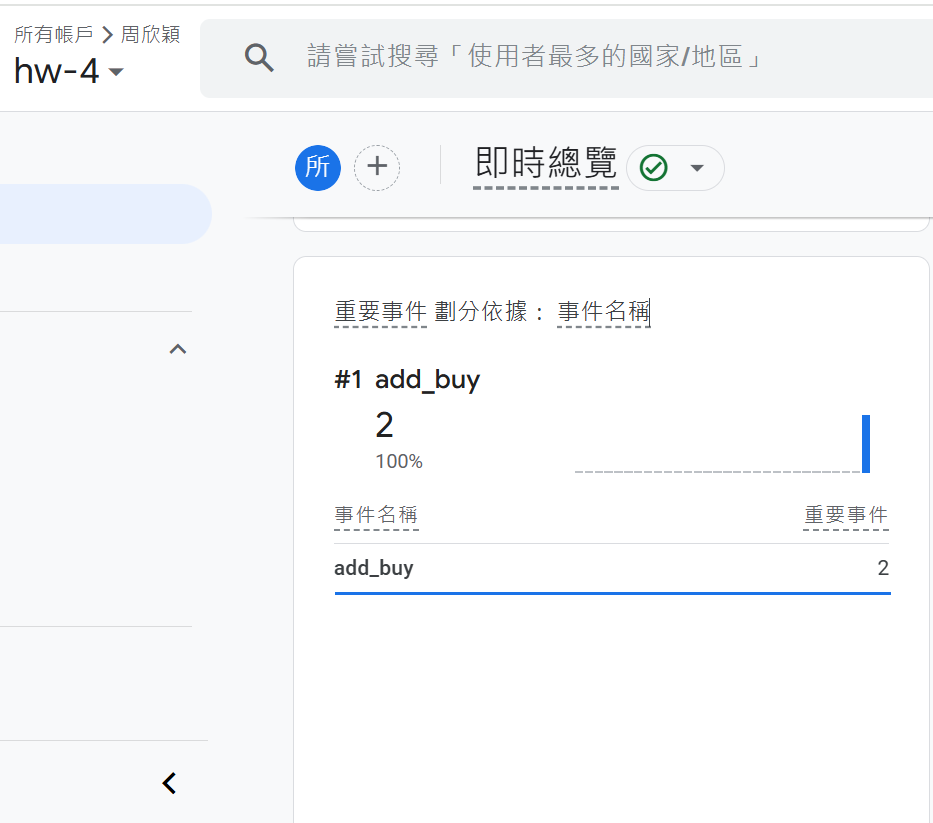
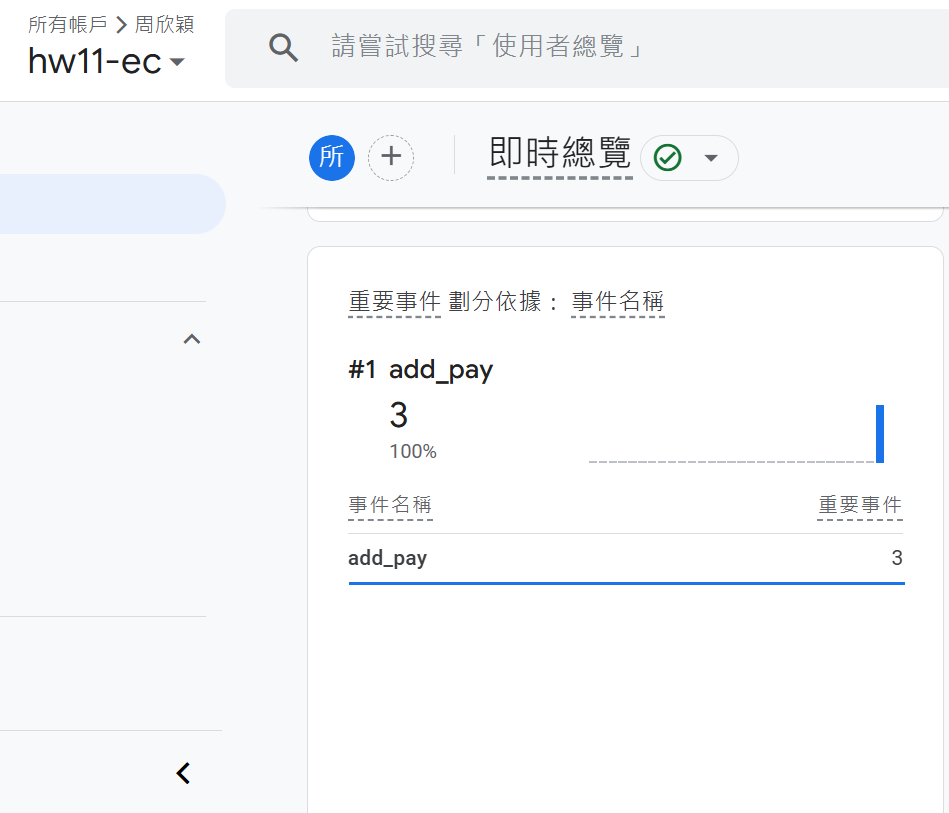
Add files via upload

diff --git a/a6.html b/a6.html
@@ -2,24 +2,39 @@
 <html xmlns="http://www.w3.org/1999/xhtml" xml:lang="en">
 
 <head>
-  <title>周欣穎 110570043 作業4 </title>
-  <meta name="description" content="周欣穎，110570043，作業4，css的各種類型" />
-  <meta name="keywords" content="enter your keywords here" />
+  <title>110570043 周欣穎 作業11</title>
+  <meta name="description" content="這是110570043，周欣穎的作業11。" />
+  <meta name="keywords" content="周欣穎，110570043，作業11，有各種CSS" />
   <meta http-equiv="content-type" content="text/html; charset=utf-8" />
-  <meta http-equiv="X-UA-Compatible" content="IE=9" />
+  <meta name="google-site-verification" content="s4L51DST4Qh712EwbbmxGDzyIBlKtvFsua62YS5jexI" />
   <link rel="stylesheet" type="text/css" href="css/style.css" />
   <link rel="stylesheet" type="text/css" href="mystyle.css" />
   <script type="text/javascript" src="js/jquery.min.js"></script>
-  <script type="text/javascript" src="js/image_slide.js"></script>
+  <script type="text/javascript" src="js/jquery.easing.min.js"></script>
+  <script type="text/javascript" src="js/jquery.lavalamp.min.js"></script>
+  <script type="text/javascript">
+    $(function() {
+      $("#lava_menu").lavaLamp({
+        fx: "backout",
+        speed: 700
+      });
+    });
+  </script>
+    <script type="text/javascript" src="js/jquery.nivo.slider.pack.js"></script>
+    <script type="text/javascript">
+    $(window).load(function() {
+        $('#slider').nivoSlider();
+    });
+    </script>
 
 <!-- Google tag (gtag.js) -->
-<script async src="https://www.googletagmanager.com/gtag/js?id=G-HQFR2LRMYH"></script>
+<script async src="https://www.googletagmanager.com/gtag/js?id=G-WD5XLC7CXP"></script>
 <script>
   window.dataLayer = window.dataLayer || [];
   function gtag(){dataLayer.push(arguments);}
   gtag('js', new Date());
 
-  gtag('config', 'G-HQFR2LRMYH');
+  gtag('config', 'G-WD5XLC7CXP');
 </script>
 
 
@@ -27,103 +42,116 @@
 
 <body>
   <div id="main">	
-	<div id="site_content">
-      <div id="site_heading">
-	    <h1>110570043 周欣穎 作業4</h1>	
-	    <h2>第三種CSS</h2>
-	  </div><!--close site_heading-->
-	  <div id="header">
-	    <div id="menubar">
-          <ul id="menu">
-            <li class="current"><a href="index.html">首頁</a></li>
-            <li><a href="a1.html">第一題</a></li>
-            <li><a href="a2.html">第二題</a></li>
-            <li><a href="a3.html">第三題</a></li>
-            <li><a href="a4.html">第四題</a></li>
-            <li><a href="a5.html">GSC截圖</a></li>
-            <li><a href="a6.html">GA截圖</a></li>
-          </ul>
-        </div><!--close menubar-->
-      </div><!--close header-->	  			  
-	  <div id="content">
-	    
-		<div id="banner_image">
-          <ul class="slideshow">
-            <li class="show"><img width="690" height="250" src="images/slide1.jpg" alt="&quot;Image description here&quot;" /></li>
-            <li><img width="690" height="250" src="images/slide2.jpg" alt="&quot;Image description here&quot;" /></li>
-          </ul>  
-	    </div><!--close banner_image-->	  
-		
-		<div class="content_item">		
-		  <h1>Welcome To Your Website</h1>
-      <hr>
-      <p>
-        <a class="s3" href="https://www.newebpay.com/website/Page/content/service_creditcard" target="_blank">下單購買(使用藍新金流NewebPay) </a>
-      </p>
+	<div id="menubar">
+      <ul class="lavaLampWithImage" id="lava_menu">
+        <li class="current"><a href="index.html">首頁</a></li>
+        <li><a href="a1.html">第1題</a></li>
+        <li><a href="a2.html">第2題</a></li>
+        <li><a href="a3.html">第3題</a></li>
+        <li><a href="a4.html">第4題</a></li>
+        <li><a href="a5.html">GSC圖片</a></li>
+        <li><a href="a6.html">GA圖片</a></li>
+      </ul>
+	</div><!--close menubar-->	    
+	<div id="site_content">        	  
+	  <div id="header"> 
+        <div id="header_name"> 	  
+          <h1>周欣穎，作業11</h1>
+        </div><!--close header_name-->	
+        <div id="header_slogan"> 		
+	      <h2>Company Slogan Goes Here</h2>
+		 </div><!--close header_slogan-->	
+      </div><!--close header-->	
+	  <div id="banner_image">
+	    <div id="slider-wrapper">        
+          <div id="slider" class="nivoSlider">
+            <img src="images/slide1.jpg" alt="" />
+            <img src="images/slide2.jpg" alt="" />
+		  </div>
+		</div><!--close slider-wrapper-->
+	  </div><!--close banner_image-->			  
+      <div id="content">
+        <div class="content_item">
+          <h1 class="s1">GA圖片</h1>
+          <hr>
+          <br>
+          <h1 class="s2"><a href="https://www.newebpay.com/website/Page/content/service_creditcard"  target="_blank" >下單購買(使用藍新金流NewebPay)</a></h1>
+          <p>
+          <img src="images/GA-1.png" width="80%">
+          <br>
+          <h2 class="s4">圖1：活躍使用者人數 (Active Users)：有多少「不同USER ID的使用者」</h2>
+          </p>
 
-      <p>
-        <img src="images/GA-1.png" width="90%">
-      </p>
+          <p>
+            <img src="images/GA-2.png" width="80%">
+            <br>
+            <h2 class="s4">圖2：
+              page_view (頁面瀏覽)=9：瀏覽9次
+              user_engagement (用戶互動)=7：有7次使用者互動(停留超過10秒，或由A網頁切換到B網頁)。它反映了使用者在網站上的參與情況
+              first_visit (首次訪問)=1：有一位新使用者首次造訪網站，它反映了新用戶的增加情況
+              session_start (拜訪開始)：每次使用者訪問網站時自動觸發這個事件，標誌著一次新的訪問開始。如果使用者在30分鐘內沒進行操作GA會自動認為這次會話結束。這個事件可以用來追蹤總訪問量</h2>
+            </p>
 
-      <p>
-        <img src="images/GA-3.png" width="90%">
-        <h3>代表網站總流量的是：session_start</h3>
-        <h3>代表網站新參觀的人數是：first_vitsit</h3>
-        <h3>代表網站實際參與人數的是：user_engagement</h3>
+            <p>
+              <img src="images/GA-3.png" width="80%">
+              <br>
+              <h2 class="s4">圖3：GA4的自訂事件(Custom Event)，add_pay</h2>
+              </p>
 
-      </p>
+              <p>
+                <img src="images/GA-4.png" width="80%">
+                <br>
+                <h2 class="s4">圖4：GA4的重要轉換事件(Important Event， Conversion)</h2>
+                </p>
 
-      <p>
-        <img src="images/GA-4.png" width="90%">
-        <h3>電商轉換率計算參數是：add_buy次數/session_start次數</h3>
-      
-      </p>
-
-
+            
 
 
 
-          <p>This standards compliant, simple, fixed width website template is released as an 'open source' design (under the Creative Commons Attribution 3.0 Licence), which means that you are free to download and use it for anything you want (including modifying and amending it). If you would like to remove the 'website template by ARaynorDesign' link from the footer of a template / website then that is OK, providing you make a small donation via the website. I do not specify an amount, just what you think the design is worth.</p>
-        </div><!--close content_item-->
-	    <div class="content_image">
-		  <a href="#"><img style=" border: 3px solid #FFF;" alt="image" src="images/city.jpg" /></a>
-		</div><!--close content_image-->
-		<div class="content_text">
-		  <p>Lorem ipsum dolor sit amet, consectetur adipiscing elit. Aenean tempor, leo quis tempus scelerisque, tellus massa adipiscing ante, vel scelerisque neque massa tempus ante. Vivamus libero lorem, bibendum ac elementum quis, auctor nec justo. Sed pretium velit nec dolor fringilla varius. Maecenas dapibus neque sed nisi ultrices a ullamcorper sapien imperdiet.</p>
-		  <a href="#">Read More</a>
-		</div><!--close content_text-->  
-		<br style="clear:both"/> 				
-	  </div><!--close content-->	    
 
-      <div class="sidebar_container">  		  
-		<div class="sidebar">
-          <div class="sidebar_item">
-            <h2>Latest Blog</h2>
-			<h4>September 2012</h4>
-            <p>Lorem ipsum dolor sit amet, consectetur adipiscing elit. Pellentesque cursus tempor enim.</p>
-		      <a href="#">Read more</a>
-           </div><!--close sidebar_item--> 
-         </div><!--close sidebar-->     		
-	    <div class="sidebar">
-          <div class="sidebar_item">
-            <h2>Latest Blog</h2>
-		  	<h4>September 2012</h4>
-            <p>Lorem ipsum dolor sit amet, consectetur adipiscing elit. Pellentesque cursus tempor enim.</p>
-		      <a href="#">Read more</a>
-          </div><!--close sidebar_item--> 
-        </div><!--close sidebar-->  
-		<div class="sidebar">
-          <div class="sidebar_item">
-            <h2>Latest Blog</h2>
-			<h4>September 2012</h4>
-            <p>Lorem ipsum dolor sit amet, consectetur adipiscing elit. Pellentesque cursus tempor enim.</p>
-		      <a href="#">Read more</a>
-          </div><!--close sidebar_item--> 
-        </div><!--close sidebar-->  
-      </div><!--close sidebar_container-->  	  
+
+          <p>This standards compliant, simple, fixed width website template is released as an 'open source' design (under the Creative Commons Attribution 3.0 Licence), which means that you are free to download and use it for anything you want (including modifying and amending it). If you wish to remove the 'ARaynorDesign' link in the footer of the template, please contact me first, but other than that...</p>
+          <h3>Place your heading here</h3>
+          <div style="width:200px; float:left; padding: 0px 20px 10px 0px;"><img alt="image" src="images/image.jpg" /></div>
+          <p>This website template uses the fancybox jquery tool to enhance the website, click on the image to the right to see. </p>
+          <p>Ut tincidunt, ante vel fermentum iaculis, turpis sem pulvinar diam, sit amet ullamcorper nibh dui ac nibh. Class aptent taciti sociosqu ad litora torquent per conubia nostra, per inceptos himenaeos:</p>
+          <p>Vestibulum tempus urna vitae neque vehicula sit amet tristique felis ultrices. Phasellus eu laoreet mauris. Integer sit amet ante nec ipsum euismod hendrerit et eget sapien. Duis velit ante, semper nec dapibus adipiscing, pellentesque vitae orci. Etiam adipiscing, justo ut faucibus placerat, neque libero accumsan ipsum, non pellentesque ligula nibh id justo. Aenean tellus nisl, bibendum vitae sollicitudin id, faucibus ut mi.</p>
+          <p>Vestibulum tempus urna vitae neque vehicula sit amet tristique felis ultrices. Phasellus eu laoreet mauris. Integer sit amet ante nec ipsum euismod hendrerit et eget sapien. Duis velit ante, semper nec dapibus adipiscing, pellentesque vitae orci. Etiam adipiscing, justo ut faucibus placerat, neque libero accumsan ipsum, non pellentesque ligula nibh id justo. Aenean tellus nisl, bibendum vitae sollicitudin id, faucibus ut mi.</p>
+		</div><!--close content_item-->	
+	      
+		<div class="sidebar_container">   		  
+		  <div class="sidebar">
+            <div class="sidebar_item">
+                <h2>Latest Blog</h2>
+			    <h4>April 2012</h4>
+                <p>Lorem ipsum dolor sit amet, consectetur adipiscing elit. Pellentesque cursus tempor enim.</p>
+		          <a href="#">Read more</a>
+              </div><!--close sidebar_item--> 
+          </div><!--close sidebar-->     		
+		  <div class="sidebar">
+            <div class="sidebar_item">
+              <h2>Latest Blog</h2>
+		  	  <h4>April 2012</h4>
+              <p>Lorem ipsum dolor sit amet, consectetur adipiscing elit. Pellentesque cursus tempor enim.</p>
+		        <a href="#">Read more</a>
+            </div><!--close sidebar_item--> 
+          </div><!--close sidebar-->  
+		  <div class="sidebar">
+            <div class="sidebar_item">
+              <h2>Latest Blog</h2>
+			  <h4>April 2012</h4>
+              <p>Lorem ipsum dolor sit amet, consectetur adipiscing elit. Pellentesque cursus tempor enim.</p>
+		        <a href="#">Read more</a>
+            </div><!--close sidebar_item--> 
+          </div><!--close sidebar-->  
+        </div><!--close sidebar_container-->	
+       <br style="clear:both;" />
+      </div><!--close content-->	
     </div><!--close site_content-->	
     <div id="footer">  
-      &copy;版權所有，2024 by 周欣穎。
+	  <div id="footer_content">
+        版權所有，&copy; designed by 周欣穎，2024
+      </div><!--close footer_content-->	
     </div><!--close footer-->	
   </div><!--close main-->	
 </body>
